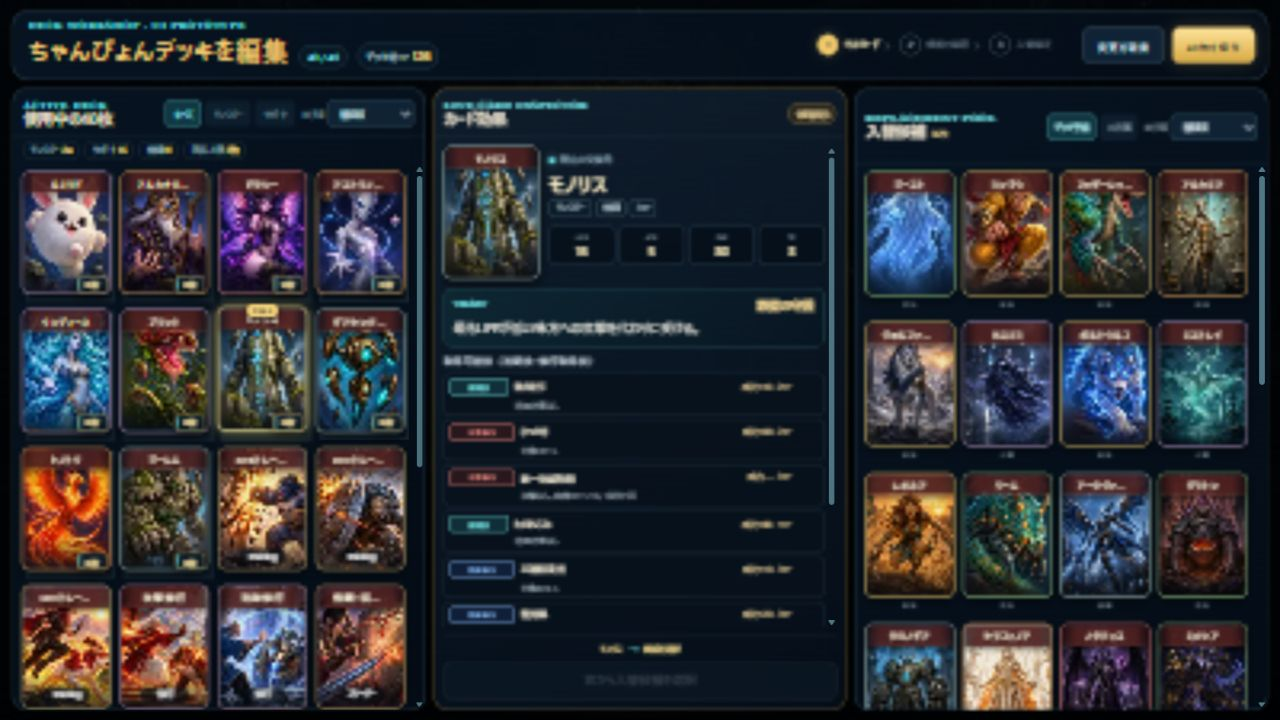
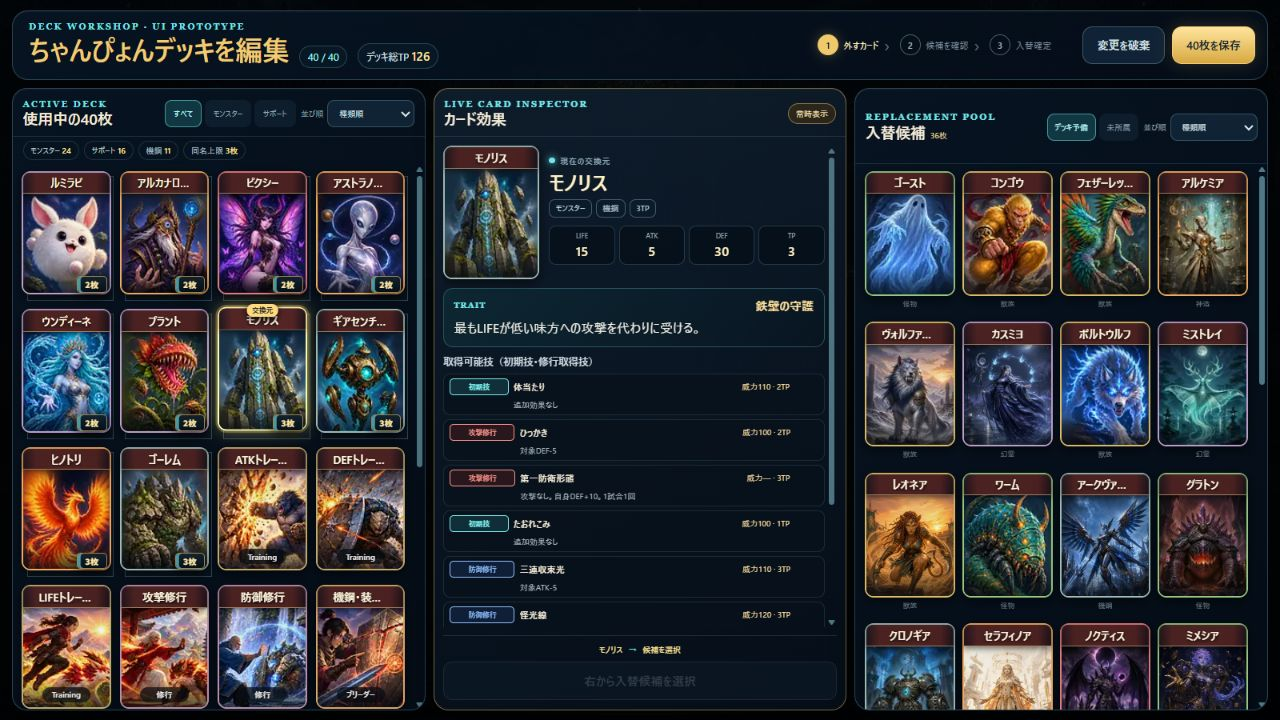
prototype: keep card art below name bands

diff --git a/prototypes/deck-editor-inspector/styles.css b/prototypes/deck-editor-inspector/styles.css
@@ -63,6 +63,9 @@ button { font:inherit; }
 .deck-slot,.candidate-slot { position:relative; min-width:0; }
 .deck-slot .game-card,.candidate-slot .game-card { width:100%; height:auto; aspect-ratio:.72; }
 #prototype-root .game-card .card-corner { display:none; }
+#prototype-root .game-card > .card-art.catalog-thumbnail-art,
+#prototype-root .game-card > .card-art.catalog-standalone-thumbnail-art { top:clamp(21px,16.5%,25px); border-radius:0 0 7px 7px; }
+#prototype-root .game-card > .card-art.catalog-thumbnail-art { background-size:100% 100%,900% auto; }
 .deck-slot .game-card { position:relative; z-index:1; max-height:154px; }
 .deck-slot.has-stack::after { content:""; position:absolute; z-index:0; inset:5px -3px -4px 5px; border:1px solid rgba(132,177,194,.35); border-radius:inherit; background:rgba(8,20,31,.82); pointer-events:none; }
 .stack-count { position:absolute; z-index:22; right:4px; bottom:4px; min-width:30px; padding:4px 6px 3px; border:1px solid rgba(240,201,108,.62); border-radius:4px; color:#ffe6a2; background:linear-gradient(180deg,rgba(18,34,46,.97),rgba(5,15,24,.97)); box-shadow:0 3px 10px rgba(0,0,0,.72),inset 3px 0 rgba(111,232,234,.62); font:800 8px/1 sans-serif; letter-spacing:.04em; text-align:center; pointer-events:none; }

diff --git a/prototypes/deck-editor-inspector/index.html b/prototypes/deck-editor-inspector/index.html
@@ -5,8 +5,8 @@
   <meta name="viewport" content="width=device-width,initial-scale=1,viewport-fit=cover">
   <meta name="theme-color" content="#06111c">
   <title>効果を見ながら組むデッキ編集案 | Monster Construction</title>
-  <link rel="stylesheet" href="../../styles.css?v=deck-editor-inspector-7">
-  <link rel="stylesheet" href="./styles.css?v=deck-editor-inspector-7">
+  <link rel="stylesheet" href="../../styles.css?v=deck-editor-inspector-8">
+  <link rel="stylesheet" href="./styles.css?v=deck-editor-inspector-8">
 </head>
 <body>
   <div id="prototype-root">
@@ -89,6 +89,6 @@
     </main>
     <div class="prototype-toast" role="status" aria-live="polite"></div>
   </div>
-  <script type="module" src="./preview.js?v=deck-editor-inspector-7"></script>
+  <script type="module" src="./preview.js?v=deck-editor-inspector-8"></script>
 </body>
 </html>
